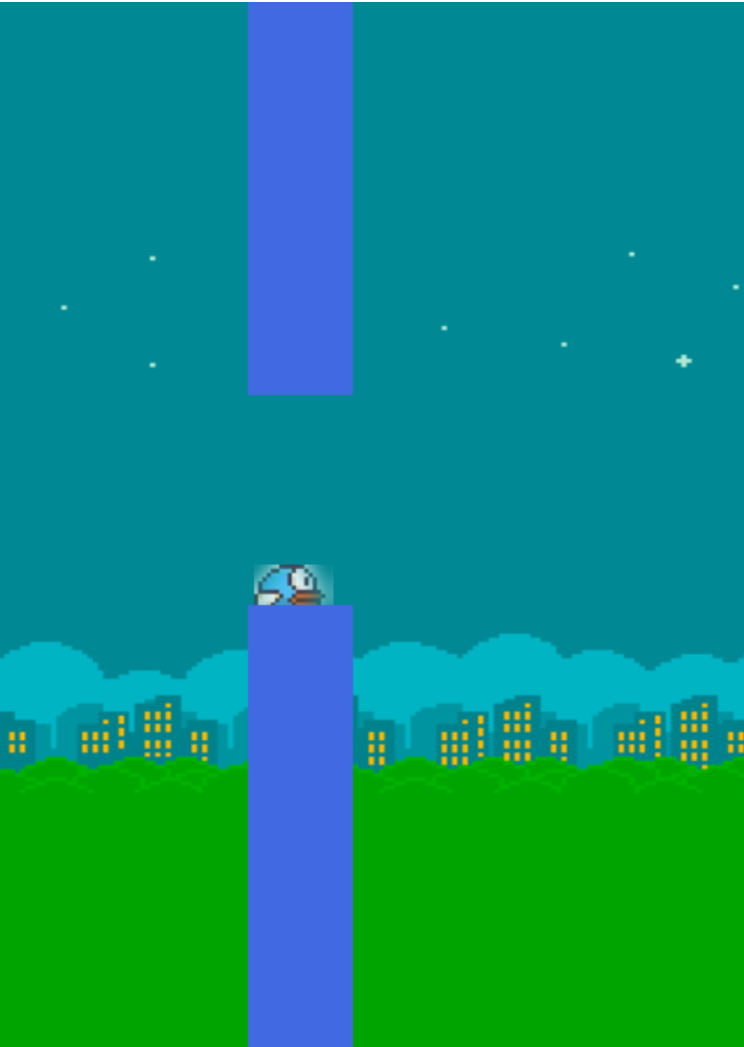
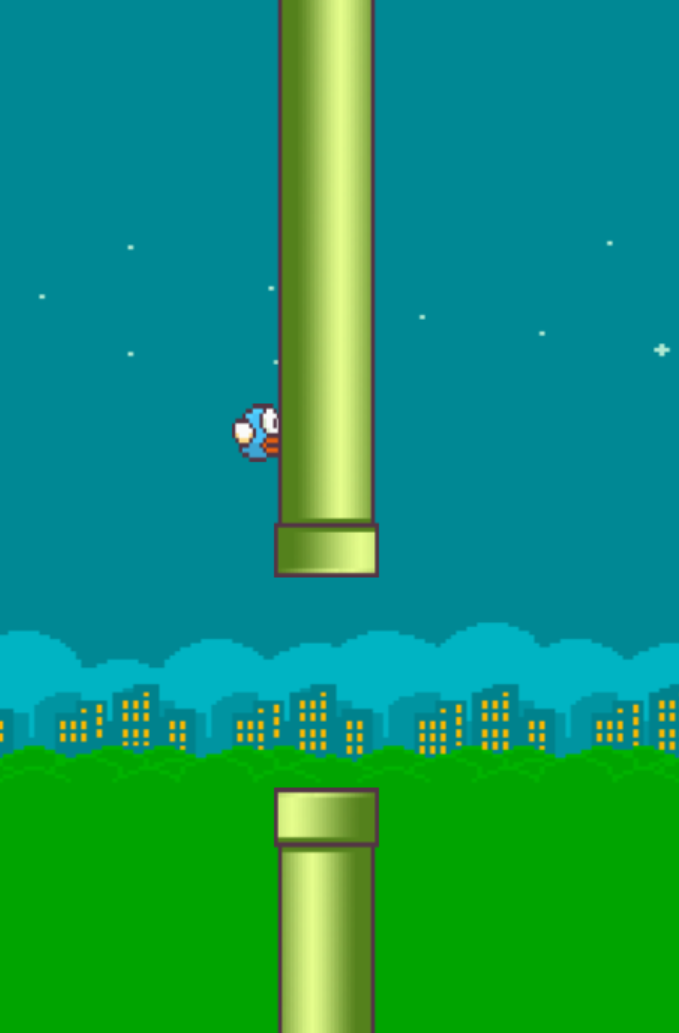
Add obstacle sprite

diff --git a/index.js b/index.js
@@ -4,144 +4,12 @@ const ctx = canvas.getContext("2d");
 canvas.width = 500;
 canvas.height = 700;
 
+// global variables
 const gravity = 0.35;
 let isGameOver = false;
 let score = 0;
 
-class Sprite {
-  constructor({ position, imageSrc, width, height, scale = 1, framesMax = 1 }) {
-    this.position = position;
-    this.image = new Image();
-    this.image.src = imageSrc;
-    this.width = width;
-    this.height = height;
-    this.scale = scale;
-    this.framesMax = framesMax;
-  }
-
-  draw() {
-    ctx.drawImage(
-      this.image,
-
-      this.position.x,
-      this.position.y,
-      this.width,
-      this.height
-    );
-  }
-
-  update() {
-    this.draw();
-  }
-}
-
-class Bird {
-  constructor({
-    position,
-    imageSrc,
-    velocity,
-    width,
-    height,
-    scale = 1,
-    framesMax = 1,
-  }) {
-    this.position = position;
-    this.velocity = velocity;
-    this.image = new Image();
-    this.image.src = imageSrc;
-    this.width = width;
-    this.height = height;
-    this.scale = scale;
-    this.framesMax = framesMax;
-    this.framesCurrent = 0;
-    this.framesElapsed = 0;
-    this.framesHold = 8;
-  }
-
-  draw() {
-    // ctx.drawImage(
-    //   this.image,
-    //   (this.image.width / this.framesMax) * this.framesCurrent,
-    //   0,
-    //   this.image.width / this.framesMax,
-    //   this.image.height,
-    //   this.position.x,
-    //   this.position.y,
-    //   (this.image.width / this.framesMax) * this.scale,
-    //   this.image.height * this.scale
-    // );
-    ctx.drawImage(
-      this.image,
-
-      this.position.x,
-      this.position.y,
-      this.width * this.scale,
-      this.height * this.scale
-    );
-  }
-
-  animateFrames() {
-    this.framesElapsed++;
-
-    if (this.framesElapsed % this.framesHold === 0) {
-      if (this.framesCurrent < this.framesMax - 1) {
-        this.framesCurrent++;
-        if (this.framesCurrent === 1) {
-          this.image.src = "./assets/bluebird-midflap.png";
-        } else {
-          this.image.src = "./assets/bluebird-upflap.png";
-        }
-      } else {
-        this.framesCurrent = 0;
-      }
-    }
-  }
-
-  update() {
-    this.position.x += this.velocity.x;
-    this.position.y += this.velocity.y;
-    this.draw();
-    this.animateFrames();
-
-    if (this.velocity.y < -8) {
-      this.velocity.y = -8;
-    }
-
-    if (this.position.y + this.height >= canvas.height) {
-      isGameOver = true;
-      this.velocity.y = 0;
-    } else {
-      this.velocity.y += gravity;
-    }
-  }
-}
-
-class Obstacle {
-  constructor({ position, velocity, height, gap }) {
-    this.position = position;
-    this.velocity = velocity;
-    this.width = 70;
-    this.height = height;
-    this.gap = gap;
-  }
-
-  draw() {
-    ctx.fillStyle = "royalblue";
-    ctx.fillRect(this.position.x, 0, this.width, this.height);
-    ctx.fillRect(
-      this.position.x,
-      this.position.y + this.height + this.gap,
-      this.width,
-      canvas.height - this.height - this.gap
-    );
-  }
-
-  update() {
-    this.draw();
-    this.position.x += this.velocity.x;
-  }
-}
-
+// object variables
 const bird = new Bird({
   position: {
     x: canvas.width / 2 - 80,
@@ -149,7 +17,7 @@ const bird = new Bird({
   },
   velocity: {
     x: 0,
-    y: 3,
+    y: 0,
   },
   width: 30,
   height: 30,
@@ -171,6 +39,8 @@ const background = new Sprite({
 });
 
 let frames = 0;
+
+// animation loop
 function animate() {
   requestAnimationFrame(animate);
 
@@ -219,8 +89,10 @@ function animate() {
           x: -4,
           y: 0,
         },
+        width: 70,
         height: Math.floor(Math.random() * (canvas.height - 180)) + 10,
         gap: 140,
+        imageSrc: "./assets/pipe-green.png",
       })
     );
   }

diff --git a/classes.js b/classes.js
@@ -1,0 +1,148 @@
+class Sprite {
+  constructor({ position, imageSrc, width, height, scale = 1, framesMax = 1 }) {
+    this.position = position;
+    this.image = new Image();
+    this.image.src = imageSrc;
+    this.width = width;
+    this.height = height;
+    this.scale = scale;
+    this.framesMax = framesMax;
+  }
+
+  draw() {
+    ctx.drawImage(
+      this.image,
+
+      this.position.x,
+      this.position.y,
+      this.width * this.scale,
+      this.height * this.scale
+    );
+  }
+
+  update() {
+    this.draw();
+  }
+}
+
+class Bird extends Sprite {
+  constructor({
+    position,
+    imageSrc,
+    velocity,
+    width,
+    height,
+    scale = 1,
+    framesMax = 1,
+  }) {
+    super({ position, imageSrc, width, height, scale, framesMax });
+    this.velocity = velocity;
+    this.framesCurrent = 0;
+    this.framesElapsed = 0;
+    this.framesHold = 8;
+  }
+
+  animateFrames() {
+    this.framesElapsed++;
+
+    if (this.framesElapsed % this.framesHold === 0) {
+      if (this.framesCurrent < this.framesMax - 1) {
+        this.framesCurrent++;
+        if (this.framesCurrent === 1) {
+          this.image.src = "./assets/bluebird-midflap.png";
+        } else {
+          this.image.src = "./assets/bluebird-upflap.png";
+        }
+      } else {
+        this.framesCurrent = 0;
+      }
+    }
+  }
+
+  update() {
+    this.position.x += this.velocity.x;
+    this.position.y += this.velocity.y;
+    this.draw();
+    this.animateFrames();
+
+    if (this.velocity.y < -8) {
+      this.velocity.y = -8;
+    }
+
+    if (this.position.y + this.height >= canvas.height) {
+      isGameOver = true;
+      this.velocity.y = 0;
+    } else {
+      this.velocity.y += gravity;
+    }
+  }
+}
+
+class Obstacle extends Sprite {
+  constructor({
+    position,
+    imageSrc,
+    width,
+    height,
+    velocity,
+    scale = 1,
+    framesMax = 1,
+    gap,
+  }) {
+    super({ position, imageSrc, width, height, scale, framesMax });
+
+    this.position = position;
+    this.velocity = velocity;
+    this.width = width;
+    this.height = height;
+    this.gap = gap;
+  }
+
+  draw() {
+    // ctx.fillStyle = "royalblue";
+    // ctx.fillRect(this.position.x, 0, this.width, this.height);
+    // ctx.drawImage(this.image, 0, canvas.height - 600, this.width, 431);
+
+    ctx.save();
+    ctx.translate(
+      this.position.x + this.width / 2,
+      this.position.y + this.height / 2
+    );
+    // ctx.rotate(3.14);
+    ctx.rotate(Math.PI);
+    ctx.translate(
+      -this.position.x - this.width / 2,
+      -this.position.y - this.height / 2
+    );
+
+    let d1 = 0;
+    if (this.height < 484) {
+      d1 = 484 - this.height;
+    }
+
+    ctx.drawImage(
+      this.image,
+      this.position.x,
+      this.position.y,
+      this.width,
+      this.height + d1
+    );
+    console.log(this.height);
+
+    ctx.restore();
+
+    let d2 = 531 - (canvas.height - this.height - this.gap);
+    ctx.drawImage(
+      this.image,
+      this.position.x,
+      this.position.y + this.height + this.gap,
+      this.width,
+      canvas.height - this.height - this.gap + d2
+    );
+  }
+
+  update() {
+    this.draw();
+    this.position.x += this.velocity.x;
+  }
+}

diff --git a/index.html b/index.html
@@ -7,6 +7,8 @@
   </head>
   <body>
     <canvas></canvas>
+
+    <script src="./classes.js"></script>
     <script src="./index.js"></script>
   </body>
 </html>

diff --git a/Readme.md b/Readme.md
@@ -9,8 +9,8 @@
 5. ~~Make Game over - collision detect~~ (2023-07-03)
 6. ~~Add sprite - background~~ (2023-07-04)
 7. ~~Add sprite - bird~~ (2023-07-04)
-8. Add sprite - ground
-9. Add sprite - obstacle
+8. ~~Add sprite - obstacle~~ (2023-07-05)
+9. Add sprite - ground
 10. refactoring
 
 ## 중간결과 기록
